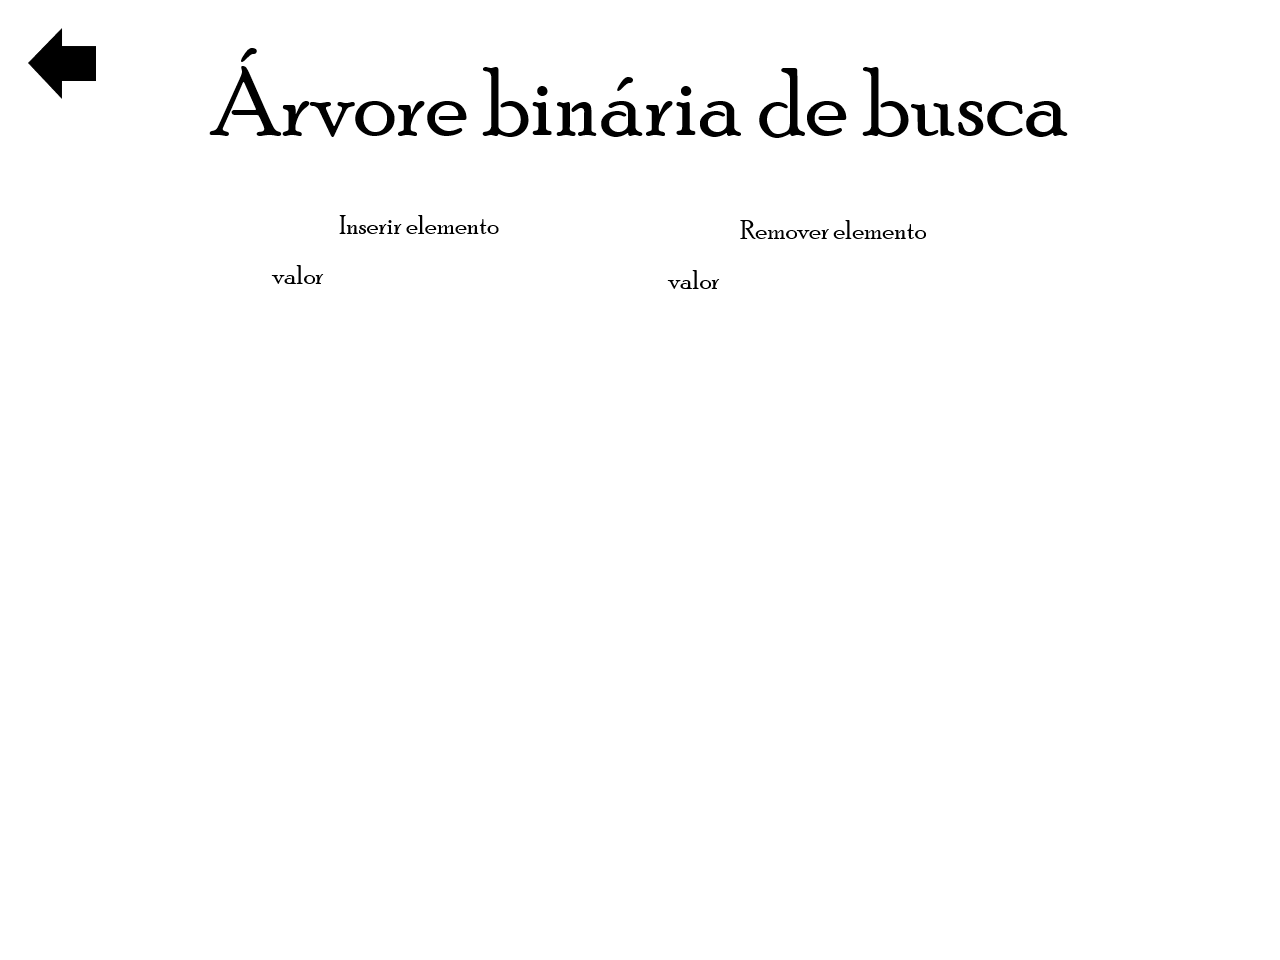
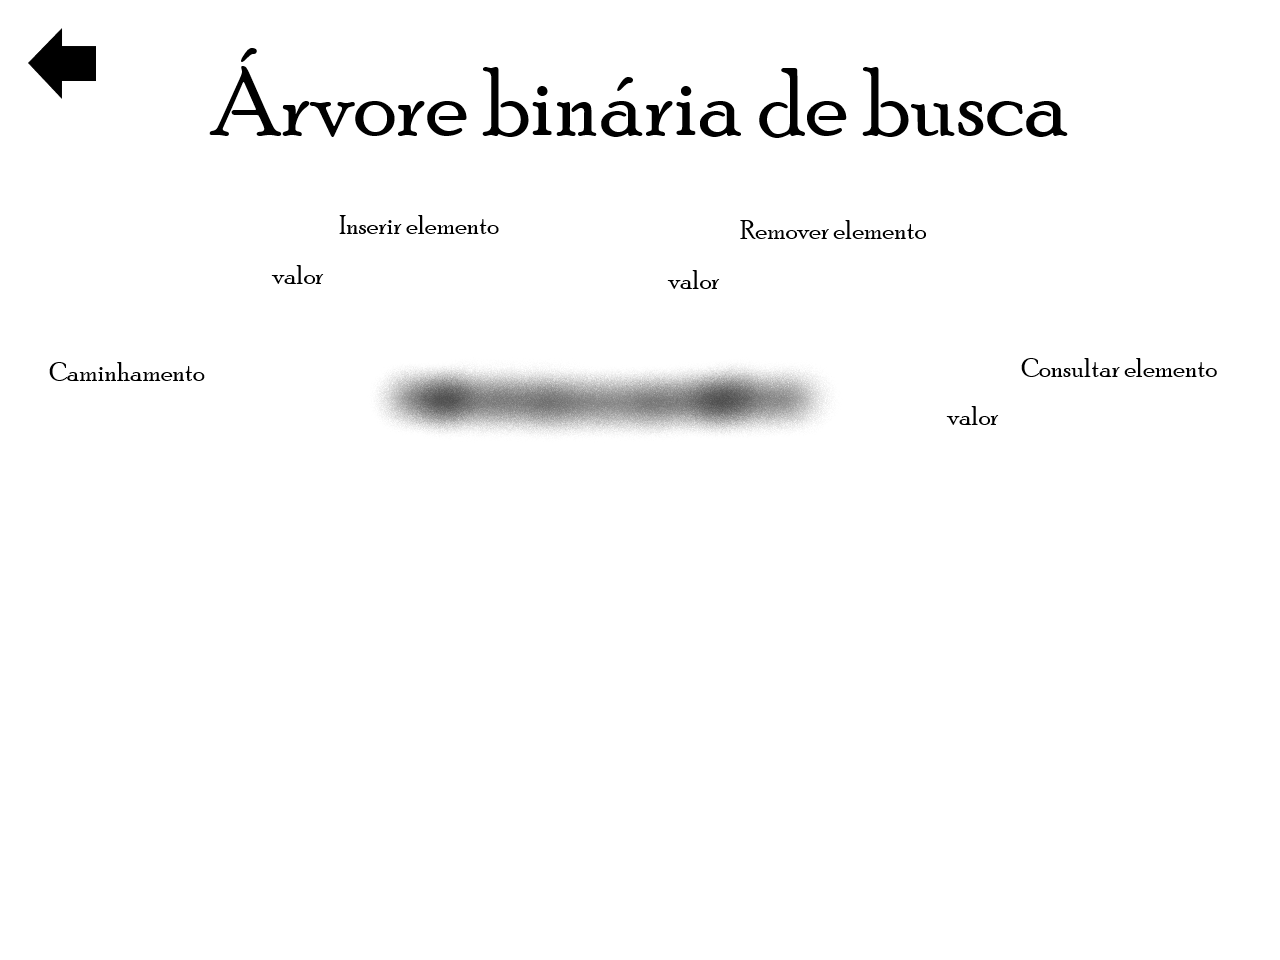
caminhamento e consulta na arvore

Changed region(s): [[0.2812, 0.375, 0.6562, 0.4688], [0.8125, 0.375, 0.9375, 0.4062], [0.0312, 0.375, 0.1562, 0.4062]]

diff --git a/SimulacaoVisualED.py b/SimulacaoVisualED.py
@@ -22,7 +22,7 @@ altura = 960
 
 tela = pygame.display.set_mode((largura, altura))
 tela.fill((255, 255, 255))
-pygame.display.set_caption('Listas') 
+pygame.display.set_caption('Listas')
 
 #FONTES
 
@@ -890,33 +890,25 @@ def print_tela_arvore():
     for box in input_boxes4:
         box.draw(tela)
 
-    if 375 <= mouse[0] <= 458 and 327 <= mouse[1] <= 359: #INSERIR
-        color2 = "black"
-
-    else:
-        color2 = "white"
-
-    pygame.draw.rect(tela, color2, (375, 327, 83, 32))
     pygame.draw.rect(tela, "grey", (376, 328, 81, 30))
     tela.blit(txt_inserir, (381, 333))
 
-    if 778 <= mouse[0] <= 878 and 328 <= mouse[1] <= 358: #REMOVER
-        color3 = "black"
-
-    else:
-        color3 = "white"
-
-    pygame.draw.rect(tela, color3, (778, 328, 100, 32))
     pygame.draw.rect(tela, "grey", (779, 329, 98, 30))
     tela.blit(txt_remover, (784, 334))
 
-    if 20 <= mouse[0] <= 110 and 20 <= mouse[1] <= 105:
-        color1 = "black"
-
-    else:
-        color1 = "white"
-
     pygame.draw.rect(tela, color1, (20, 20, 90, 85), 2)
+
+    pygame.draw.rect(tela, "grey", (1064, 459, 113, 30))
+    tela.blit(txt_consultar, (1068, 464))
+
+    pygame.draw.rect(tela, "grey", (69, 421, 118, 30))
+    tela.blit(txt_preordem, (73, 426))
+
+    pygame.draw.rect(tela, "grey", (69, 485, 108, 30))
+    tela.blit(txt_emordem, (73, 490))
+
+    pygame.draw.rect(tela, "grey", (69, 549, 123, 30))
+    tela.blit(txt_posordem, (73, 554))
 
 def insert(root_node, value):
     new_node = Node(value)
@@ -928,7 +920,7 @@ def insert(root_node, value):
             current_node.color = "blue"
             space = pow(2, get_height(root)-2) * node_radius
             print_tela_arvore()
-            draw_tree(root, 600, 435, space)
+            draw_tree(root, x_raiz, y_raiz, space)
             pygame.display.update()
             time.sleep(0.8)
             current_node.color = "black"
@@ -952,23 +944,33 @@ def insert(root_node, value):
 
     return root_node
 
-def find_node(value, root_node):
+def find_node(value, root_node, procurar=False):
     current_node = root_node
     while current_node is not None:
         current_node.color = "blue"
         space = pow(2, get_height(root)-2) * node_radius
         print_tela_arvore()
-        draw_tree(root, 600, 435, space)
+        draw_tree(root, x_raiz, y_raiz, space)
         pygame.display.update()
         time.sleep(0.8)
         current_node.color = "black"
 
         if value == current_node.data:
+            if procurar:
+                current_node.color = "green"
+                space = pow(2, get_height(root)-2) * node_radius
+                print_tela_arvore()
+                draw_tree(root, x_raiz, y_raiz, space)
+                pygame.display.update()
+                time.sleep(1)
+                current_node.color = "black"
+
             return current_node
         elif value < current_node.data:
             current_node = current_node.left_child
         else:
             current_node = current_node.right_child
+
     return None
 
 def find_min_node(node):
@@ -1021,6 +1023,71 @@ def remove_tree(value, root_node):
     
     return root_node
 
+def preordem(node, string):
+    if node is not None:
+        
+        string += str(node.data) + ", "
+        texto = FONT.render(string, True, "green")
+        node.color = "blue"
+        space = pow(2, get_height(root)-2) * node_radius
+        print_tela_arvore()
+        draw_tree(root, x_raiz, y_raiz, space)
+        tela.blit(texto, (427, 386))
+        pygame.display.update()
+        time.sleep(0.8)
+        node.color = "black"
+
+        string = preordem(node.left_child, string)
+        string = preordem(node.right_child, string)
+    
+    for event in pygame.event.get():
+        pass
+
+    return string
+
+def emordem(node, string):
+    if node is not None:
+        string = emordem(node.left_child, string)
+        
+        string += str(node.data) + ", "
+        texto = FONT.render(string, True, "green")
+        node.color = "blue"
+        space = pow(2, get_height(root)-2) * node_radius
+        print_tela_arvore()
+        draw_tree(root, x_raiz, y_raiz, space)
+        tela.blit(texto, (427, 386))
+        pygame.display.update()
+        time.sleep(0.8)
+        node.color = "black"
+
+        string = emordem(node.right_child, string)
+
+    for event in pygame.event.get():
+        pass
+
+    return string
+
+def posordem(node, string):
+    if node is not None:
+        string = posordem(node.left_child, string)
+        string = posordem(node.right_child, string)
+
+        string += str(node.data) + ", "
+        texto = FONT.render(string, True, "green")
+        node.color = "blue"
+        space = pow(2, get_height(root)-2) * node_radius
+        print_tela_arvore()
+        draw_tree(root, x_raiz, y_raiz, space)
+        tela.blit(texto, (427, 386))
+        pygame.display.update()
+        time.sleep(0.8)
+        node.color = "black"
+
+    for event in pygame.event.get():
+        pass  
+
+    return string
+
 node_radius = 25
 height_difference = 100
 
@@ -1056,6 +1123,9 @@ txt_inserir = FONT.render("inserir", True, "black")
 txt_remover = FONT.render("remover", True, "black")
 txt_consultar = FONT.render("consultar", True, "black")
 txt_erro = FONT.render("ERRO", True, "red")
+txt_preordem = FONT.render("pre-ordem", True, "black")
+txt_emordem = FONT.render("in-ordem", True, "black")
+txt_posordem = FONT.render("pos-ordem", True, "black")
 
 input_box1 = InputBox(145, 310, 170, 32)
 input_box2 = InputBox(145, 360, 170, 32)
@@ -1080,7 +1150,12 @@ input_boxes3 = [input_box11, input_box12, input_box13, input_box14, input_box15]
 
 input_box16 = InputBox(335, 260, 170, 32)
 input_box17 = InputBox(735, 260, 190, 32)
-input_boxes4 = [input_box16, input_box17]
+input_box18 = InputBox(1019, 400, 200, 32)
+input_boxes4 = [input_box16, input_box17, input_box18]
+
+seguir_mouse = False
+x_raiz = 600
+y_raiz = 470
 
 offset_increment = 0
 offset_decrement = 0
@@ -1115,6 +1190,7 @@ flag_erro9 = 0
 
 content16 = ''
 content17 = ''
+content18 = ''
 
 listaseq = listaSeq()
 imp = imprimeListaSeq(listaseq.dados)
@@ -1877,13 +1953,25 @@ def highlight_boxes(b_arrows, b_consultar, b_pagina6 = 0):
 ################################################      LOOP      DO     JOGO      ################################################################
 #################################################################################################################################################
 
+mousex_anterior = 0
+mousey_anterior = 0
+
 while True:
     relogio.tick(60)
 
     mouse = pygame.mouse.get_pos()
 
+    mousex_atual = mouse[0]
+    mousey_atual = mouse[1]
+
+    deltax_mouse = mousex_atual - mousex_anterior
+    deltay_mouse = mousey_atual - mousey_anterior
+
+    mousex_anterior = mouse[0]
+    mousey_anterior = mouse[1]
+
     for event in pygame.event.get(): #EVENTOS
-        if event.type == QUIT:
+        if event.type == QUIT or (event.type == KEYDOWN and event.key == K_ESCAPE):
             pygame.quit()
             exit()
         if event.type == KEYDOWN: 
@@ -1897,6 +1985,8 @@ while True:
         # if event.type == MOUSEBUTTONDOWN:
         #     print("X: ", mouse[0])
         #     print("Y: ", mouse[1])
+        if event.type == MOUSEBUTTONDOWN and pagina == 6:
+            seguir_mouse = True
         if event.type == MOUSEBUTTONDOWN and 210 <= mouse[0] <= 685 and 270 <= mouse[1] <= 345 and pagina == 0: #BOTAO PAGINA 1
             pagina = 1
         if event.type == MOUSEBUTTONDOWN and 210 <= mouse[0] <= 1045 and 365 <= mouse[1] <= 440 and pagina == 0: #BOTAO PAGINA 2
@@ -1952,6 +2042,8 @@ while True:
                     content11 = ''
                     content12 = ''
         if event.type == MOUSEBUTTONDOWN and 375 <= mouse[0] <= 458 and 327 <= mouse[1] <= 359 and pagina == 6: #INSERIR PAGINA 6
+            seguir_mouse = False
+        
             content16 = input_box16.returnText()
             if content16 != "":
                 root = insert(root, int(content16))
@@ -1997,6 +2089,8 @@ while True:
 
                     content13 = ''
         if event.type == MOUSEBUTTONDOWN and 778 <= mouse[0] <= 878 and 328 <= mouse[1] <= 358 and pagina == 6: #REMOVER PAGINA 6
+            seguir_mouse = False
+            
             content17 = input_box17.returnText()
 
             if content17 != "":
@@ -2061,6 +2155,8 @@ while True:
                 input_box10.text = ''
                 input_box10.txt_surface = FONT.render(input_box10.text, True, input_box10.color)
         if event.type == MOUSEBUTTONDOWN and 956 <= mouse[0] <= 1069 and 416 <= mouse[1] <= 446 and pagina == 3: #CONSULTAR PAGINA 3
+            seguir_mouse = False
+
             content14 = input_box14.returnText()
             content15 = input_box15.returnText()
 
@@ -2088,7 +2184,36 @@ while True:
                 input_box14.txt_surface = FONT.render(input_box14.text, True, input_box14.color)
                 input_box15.text = ''
                 input_box15.txt_surface = FONT.render(input_box15.text, True, input_box15.color)
+        
+        if event.type == MOUSEBUTTONDOWN and 1063 <= mouse[0] <= 1176 and 458 <= mouse[1] <= 490 and pagina == 6: #CONSULTAR PAGINA 6
+            seguir_mouse = False
+            
+            content18 = input_box18.returnText()
 
+            if content18 != "":
+                find_node(int(content18), root, True)
+
+            for event in pygame.event.get():
+                pass
+
+        if event.type == MOUSEBUTTONDOWN and 68 <= mouse[0] <= 188 and 420 <= mouse[1] <= 452 and pagina == 6: #PRE ORDEM
+            seguir_mouse = False
+
+            preordem(root, "")
+        
+        if event.type == MOUSEBUTTONDOWN and 68 <= mouse[0] <= 178 and 484 <= mouse[1] <= 516 and pagina == 6: #EM ORDEM
+            seguir_mouse = False
+
+            emordem(root, "")
+
+        if event.type == MOUSEBUTTONDOWN and 68 <= mouse[0] <= 193 and 548 <= mouse[1] <= 580 and pagina == 6: #POS ORDEM
+            seguir_mouse = False
+
+            posordem(root, "")
+
+        if event.type == MOUSEBUTTONUP and pagina == 6:
+            seguir_mouse = False
+            
         if event.type == MOUSEBUTTONDOWN and 601 <= mouse[0] <= 729 and 790 <= mouse[1] <= 875 and (pagina == 2 or pagina == 3): #MOVER A LISTA PARA DIREITA
             offset_increment = 1
         if event.type == MOUSEBUTTONDOWN and 473 <= mouse[0] <= 601 and 790 <= mouse[1] <= 875 and (pagina == 2 or pagina == 3): #MOVER A LISTA PARA ESQUERDA
@@ -2216,14 +2341,42 @@ while True:
         case 6:
             tela.blit(tela6, (0, 0))
 
+            space = pow(2, get_height(root)-2) * node_radius
+
+            # Desenha a árvore
+            if seguir_mouse:
+                x_raiz += deltax_mouse
+                y_raiz += deltay_mouse
+
+            draw_tree(root, x_raiz, y_raiz, space)
+
             for box in input_boxes4:
                 box.draw(tela)
 
             highlight_boxes(0, 0, 1)
 
-            space = pow(2, get_height(root)-2) * node_radius
+            color4 = highlight_button(1063, 1176, 458, 490) #CONSULTAR
 
-            # Desenha a árvore
-            draw_tree(root, 600, 435, space)
+            pygame.draw.rect(tela, color4, (1063, 458, 115, 32))
+            pygame.draw.rect(tela, "grey", (1064, 459, 113, 30))
+            tela.blit(txt_consultar, (1068, 464))
+
+            color4 = highlight_button(68, 188, 420, 452) #PRE ORDEM
+
+            pygame.draw.rect(tela, color4, (68, 420, 120, 32))
+            pygame.draw.rect(tela, "grey", (69, 421, 118, 30))
+            tela.blit(txt_preordem, (73, 426))
+
+            color4 = highlight_button(68, 178, 484, 516) #EM ORDEM
+
+            pygame.draw.rect(tela, color4, (68, 484, 110, 32))
+            pygame.draw.rect(tela, "grey", (69, 485, 108, 30))
+            tela.blit(txt_emordem, (73, 490))
+
+            color4 = highlight_button(68, 193, 548, 580) #POS ORDEM
+
+            pygame.draw.rect(tela, color4, (68, 548, 125, 32))
+            pygame.draw.rect(tela, "grey", (69, 549, 123, 30))
+            tela.blit(txt_posordem, (73, 554))
 
     pygame.display.update()
